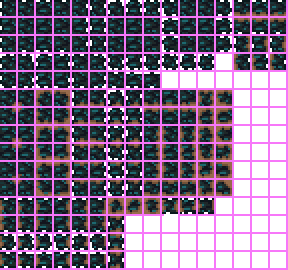
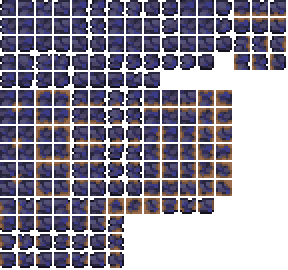
Added resprited biome tiles

diff --git a/Tiles/CaveMud.cs b/Tiles/CaveMud.cs
@@ -11,7 +11,7 @@ namespace OvermorrowMod.Tiles
         public override void SetDefaults()
         {
             Main.tileSolid[Type] = true;
-            Main.tileMergeDirt[Type] = true;
+            Main.tileMergeDirt[Type] = false;
             Main.tileBlockLight[Type] = true;
             Main.tileLighted[Type] = true;
             drop = ModContent.ItemType<OvermorrowMod.Items.Placeable.Tiles.CaveMud>();
